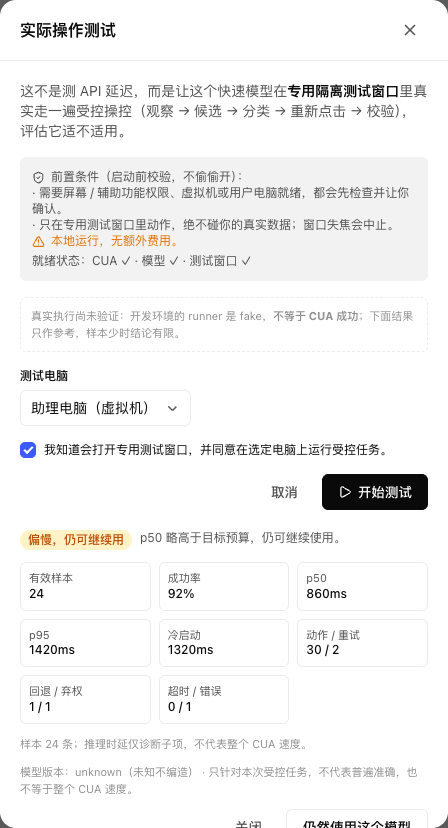
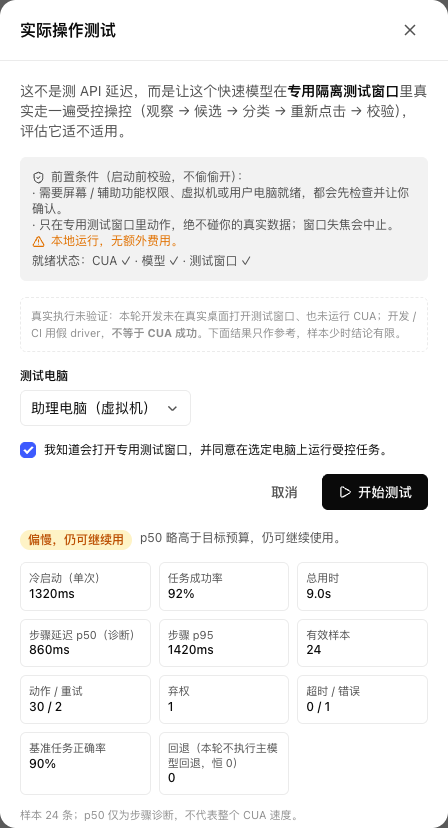
实际操作测试接benchmark真实契约(c98a299)：target hostpc|computer、冷启动/任务成功率/总用时、p50标步骤诊断、未真实执行声明、fallbackCount不当接管收益

diff --git a/apps/web/src/components/ModelServices.tsx b/apps/web/src/components/ModelServices.tsx
@@ -297,7 +297,7 @@ function LocalLayaCard({ demo, onBenchmark }: { demo: boolean; onBenchmark: (pro
 
 /** 实际操作测试：真实受控 CUA 任务（不是 API 延迟）。渲染 FastBenchmarkResult，不另定义结果结构。 */
 function BenchmarkDialog({ open, onClose, provider, model }: { open: boolean; onClose: () => void; provider: RegistryProvider; model: RegistryModel }) {
-	const [target, setTarget] = useState<"assistant" | "host">("assistant");
+	const [target, setTarget] = useState<"hostpc" | "computer">("computer");
 	const [ack, setAck] = useState(false);
 	const [availability, setAvailability] = useState<BenchmarkAvailability | null>(null);
 	const [run, setRun] = useState<FastBenchmarkResult | null>(null);
@@ -362,7 +362,7 @@ function BenchmarkDialog({ open, onClose, provider, model }: { open: boolean; on
 					)}
 				</div>
 				<div className="rounded-lg border border-dashed border-line p-2.5 text-[11px] text-mut2" data-testid="benchmark-unverified-note">
-					真实执行尚未验证：开发环境的 runner 是 fake，<b>不等于 CUA 成功</b>；下面结果只作参考，样本少时结论有限。
+					真实执行未验证：本轮开发未在真实桌面打开测试窗口、也未运行 CUA；开发 / CI 用假 driver，<b>不等于 CUA 成功</b>。下面结果只作参考，样本少时结论有限。
 				</div>
 				{!running && (
 					<>
@@ -373,10 +373,10 @@ function BenchmarkDialog({ open, onClose, provider, model }: { open: boolean; on
 								ariaLabel="测试电脑"
 								testId="actual-task-target"
 								options={[
-									{ value: "assistant", label: "助理电脑（虚拟机）" },
-									{ value: "host", label: "用户电脑（这台 Mac）" },
+									{ value: "computer", label: "助理电脑（虚拟机）" },
+									{ value: "hostpc", label: "用户电脑（这台 Mac，需先开启「操作这台电脑」）" },
 								]}
-								onChange={(v) => setTarget(v as "assistant" | "host")}
+								onChange={(v) => setTarget(v as "hostpc" | "computer")}
 							/>
 						</div>
 						<label className="flex items-center gap-2 text-xs">
@@ -415,17 +415,22 @@ function BenchmarkDialog({ open, onClose, provider, model }: { open: boolean; on
 					{run ? (
 						<>
 							<div className="grid grid-cols-2 gap-2 text-xs sm:grid-cols-3">
+								<Metric label="冷启动（单次）" value={run.coldStartMs == null ? "—" : `${run.coldStartMs}ms`} />
+								<Metric label="任务成功率" value={run.samples ? `${Math.round(run.successRatio * 100)}%` : "—"} />
+								<Metric label="总用时" value={totalMs(run) == null ? "—" : `${(totalMs(run)! / 1000).toFixed(1)}s`} />
+								<Metric label="步骤延迟 p50（诊断）" value={run.p50Ms == null ? "—" : `${run.p50Ms}ms`} />
+								<Metric label="步骤 p95" value={run.p95Ms == null ? "—" : `${run.p95Ms}ms${run.p95Approx ? "（粗略）" : ""}`} />
 								<Metric label="有效样本" value={String(run.samples)} />
-								<Metric label="成功率" value={run.successRatio == null ? "—" : `${Math.round(run.successRatio * 100)}%`} />
-								<Metric label="p50" value={run.p50Ms == null ? "—" : `${run.p50Ms}ms`} />
-								<Metric label="p95" value={run.p95Ms == null ? "—" : `${run.p95Ms}ms${run.p95Approx ? "（粗略）" : ""}`} />
-								<Metric label="冷启动" value={run.coldStartMs == null ? "—" : `${run.coldStartMs}ms`} />
 								<Metric label="动作 / 重试" value={`${run.actions} / ${run.retries}`} />
-								<Metric label="回退 / 弃权" value={`${run.fallbackCount} / ${run.abstains}`} />
+								<Metric label="弃权" value={String(run.abstains)} />
 								<Metric label="超时 / 错误" value={`${run.timeouts} / ${run.errors}`} />
+								<Metric label="基准任务正确率" value={run.correctness == null ? "—" : `${Math.round(run.correctness * 100)}%`} />
+								<Metric label="回退（本轮不执行主模型回退，恒 0）" value={String(run.fallbackCount)} />
 							</div>
 							{run.note && <div className="text-[11px] text-mut2" data-testid="actual-task-accuracy-note">{run.note}</div>}
-							<div className="text-[11px] text-mut2">模型版本：{run.modelVersion}（未知不编造） · 只针对本次受控任务，不代表普遍准确，也不等于整个 CUA 速度。</div>
+							<div className="text-[11px] text-mut2">
+								目标：{run.target.prefix === "hostpc" ? "用户电脑" : "助理电脑"} · 模型版本：{run.modelVersion}（未知不编造） · p50 只是步骤诊断，<b>不代表整个 CUA 速度</b>；只针对本轮受控任务，不代表普遍准确。
+							</div>
 						</>
 					) : (
 						<div className="text-[11px] text-mut2" data-testid="actual-task-accuracy-note">还没有跑过测试。点「开始测试」会真实执行一次受控任务。</div>
@@ -450,6 +455,12 @@ function Metric({ label, value }: { label: string; value: string }) {
 			<div className="font-medium">{value}</div>
 		</div>
 	);
+}
+/** 总用时：从开始到结束（仅取合约里的 startedAt / finishedAt，不编造其它耗时）。 */
+function totalMs(run: FastBenchmarkResult): number | null {
+	if (!run.startedAt || !run.finishedAt) return null;
+	const ms = Date.parse(run.finishedAt) - Date.parse(run.startedAt);
+	return Number.isFinite(ms) && ms >= 0 ? ms : null;
 }
 
 /** 服务卡：图标 + 名称 / 状态 / 能力标签；展开是模型列表（能力可纠正）。 */

diff --git a/apps/web/src/types.ts b/apps/web/src/types.ts
@@ -166,26 +166,26 @@ export interface FastBenchmarkResult {
 	provider: string;
 	model: string;
 	modelVersion: string;
-	target: { prefix: string; fixtureId: string };
-	startedAt?: string;
-	finishedAt?: string;
+	target: { prefix: "hostpc" | "computer"; fixtureId: string };
+	startedAt: string;
+	finishedAt: string | null;
 	createdAt: string;
 	warmup: number;
 	samples: number;
-	coldStartMs?: number;
-	p50Ms?: number;
-	p95Ms?: number;
-	p95Approx?: boolean;
+	coldStartMs: number | null;
+	p50Ms: number | null;
+	p95Ms: number | null;
+	p95Approx: boolean;
 	timeouts: number;
 	errors: number;
-	successRatio?: number;
+	successRatio: number;
 	actions: number;
 	retries: number;
 	fallbackCount: number;
 	abstains: number;
-	correctness?: number | null;
-	correctTrials?: number;
-	note?: string;
-	advisory?: { verdict: "ok" | "slow" | "unstable" | "blocked"; recommended: boolean; message: string; reason: string };
-	reason?: string;
+	correctness: number | null;
+	correctTrials: number;
+	note: string;
+	advisory: { verdict: "ok" | "slow" | "unstable" | "blocked"; recommended: boolean; message: string; reason: string };
+	reason: string | null;
 }

diff --git a/docs/design/model-settings-unified.md b/docs/design/model-settings-unified.md
@@ -101,12 +101,14 @@ migrateLegacyImageProviders(input: { imageProviders: ImageProvider[]; customProv
 
 **不是 API 延迟**：让快速模型在专用隔离 fixture 窗口里真实走 observe → candidate → classify → fresh click → verify，评估适用性。
 
-- API：`GET /api/fast-computer/benchmark` → `{ availability: BenchmarkAvailability, runs: FastBenchmarkResult[] }`；`POST` body `{ provider, model, maxTrials?, warmup?, target? }`（未就绪 → `409 { blocked, availability }`）；`GET /:id`；`POST /:id/cancel`。
-- `BenchmarkAvailability = { cuaReady, modelReady, fixtureReady, reasons[] }`；任一 false → UI 显示 reasons 并禁用开始（**不偷偷开 VM / 装模型**）。
-- 结果 `FastBenchmarkResult`：`status / provider / model / modelVersion / target / samples / coldStartMs / p50Ms / p95Ms / p95Approx / timeouts / errors / successRatio / actions / retries / fallbackCount / abstains / correctness / note / advisory{verdict: ok|slow|unstable|blocked, recommended, message, reason}`。
-- advisory **不 hard-disable**：`successRatio<0.6` 或 `errors≥3` → unstable（建议排查）；`p50>responseBudgetMs`（默认 1000，可配）→ slow（仍可继续用）。
-- UI 必显：**尚未运行**（无 runs 时）、**真实执行未验证**（开发 runner 是 fake，不等于 CUA 成功）、冷启动不进 p50/p95、样本少结论有限、**不等于整个 CUA 速度**。
-- 云分类器前提示**可能少量计费**；local 无费用。测试电脑选择（assistant / host）映射到 `target.prefix`（schema 增量，可选）。
+- API：`GET /api/fast-computer/benchmark` → `{ availability: BenchmarkAvailability, runs: FastBenchmarkResult[] }`；`POST` body `{ provider, model, maxTrials?, warmup?, target? }`，`target: "hostpc" | "computer"`（未就绪 → `409 { blocked, availability }`）；`GET /:id`；`POST /:id/cancel`；fixture 页 `GET /fixture/:id` + `POST /fixture/:id/state?nonce=`（nonce 强绑定）。
+- `BenchmarkAvailability = { cuaReady, modelReady, fixtureReady, reasons[] }`；任一 false → UI 显示 reasons 并禁用开始（**不偷偷开 VM**；hostpc 需先开启「操作这台电脑」）。
+- 结果 `FastBenchmarkResult`：`status / provider / model / modelVersion / target{prefix,fixtureId} / startedAt / finishedAt / samples / coldStartMs / p50Ms / p95Ms / p95Approx / timeouts / errors / successRatio / actions / retries / fallbackCount / abstains / correctness / note / advisory{verdict,recommended,message,reason} / reason`。
+- UI 展示重点：**冷启动（单次）· 任务成功率 · 总用时**（由 `startedAt`/`finishedAt` 算）；**p50 标「步骤延迟（诊断）」**，不代表整个 CUA 速度；正确率是本轮 bench task 正确率（不是泛化 accuracy）。
+- advisory **不 hard-disable**：`successRatio<0.6` 或 `errors≥3` → unstable（建议排查）；`p50>responseBudgetMs`（默认 1000）→ slow（仍可继续用）。
+- UI 必显：**尚未运行**（无 runs 时）、**真实执行未验证**（本轮开发未在真实桌面打开窗口 / 未跑 CUA，假 driver ≠ CUA 成功）。
+- `fallbackCount` 只在真正执行主模型回退时才算，基准不执行回退 → 恒 0；**不得当「接管收益」报告**。
+- 云分类器前提示**可能少量计费**；local 无费用。
 
 ## 7. 本地 Laya：安装 / health 契约（laya agent 已冻结，UI 直接对接）
 

diff --git a/progress-snapshots/model-settings-unified.md b/progress-snapshots/model-settings-unified.md
@@ -14,7 +14,7 @@
   - 能力多标签（对话 / 识图 / 生图 / 分类器）；推断能力标「未确认」；点「能力」手动纠正（`PUT /api/models/registry/:p/models/:m/capabilities`）。
   - 添加服务：`Select` 选官方 / 自定义（非原生 select）+ 填地址 Key；本地 Laya 在管理卡里安装，不在添加对话框。
   - **本地 Laya 管理卡**（按 `local-laya-runtime` 冻结契约 `/api/local-models/laya/*`）：安装 / 取消 / 启动 / 停止 / 更新 / 卸载确认；阶段进度；**health 读实测 `device` / `cpuFallbacks` / `revisions`**（不是 `platform.accelerator`）；`source=local`；**停止后模型显示未就绪、不删条目/配置**；平台不支持置灰 + reason；**明写「尚未在本机实机验证」**；永不显示 token。
-  - **实际操作测试**：渲染 `FastBenchmarkResult`（不另定义结果结构），先显示 availability / 「尚未运行」/「真实执行未验证（fake ≠ CUA 成功）」，advisory 建议不 hard-disable，云提示计费，选测试电脑（assistant / host）。
+  - **实际操作测试**：渲染 `FastBenchmarkResult`（不另定义结果结构），先显示 availability / 「尚未运行」/「真实执行未验证（本轮未在真实桌面开窗、未跑 CUA，假 driver ≠ CUA 成功）」；选测试电脑 `hostpc` / `computer`；重点展示**冷启动（单次）/ 任务成功率 / 总用时**，**p50 标「步骤延迟（诊断）」**；advisory 不 hard-disable；云提示计费；`fallbackCount` 恒 0 不当接管收益。
   - `apps/web/src/types.ts`：registry / benchmark / **LayaStatus** 类型（镜像服务端契约）。
   - **默认不渲染**：`/api/models/registry` 未就绪时面板返回 null，保持旧界面（避免影响现有 e2e）；`?unified=1` 预览原型。registry 就绪后自动接管。
 - [x] **e2e 通过**：`e2e/model-services-ui.mjs`（纯前端 fixture，静态 dist + 拦截 /api，不起 main、不碰钥匙串）：
@@ -49,7 +49,7 @@
 2. `RegistryModel.imageAdapter`（仅 image）：`{ kind, baseUrl, edit, costNote? }` —— 取代 `imageProviders` / `imageKey:<id>` 两套 key。
 3. 生图迁移 `migrateLegacyImageProviders`：凭据唯一（`credentialId===provider.id`），`keyFrom` 只挂到自定义 provider，独立 Key 迁到统一凭据并标 `imageKeyMigrated:<id>`，旧密文保留但运行时不读；幂等不删原数据。
 4. 能力纠正 `PUT /api/models/registry/:providerId/models/:modelId/capabilities`。
-5. benchmark `POST` body 可选 `target`（assistant / host → `target.prefix`）。
+5. ~~benchmark POST target~~ 已由 benchmark agent 落地（`target: "hostpc" | "computer"`，c98a299），UI 已对接。
 
 ## 边界
 
